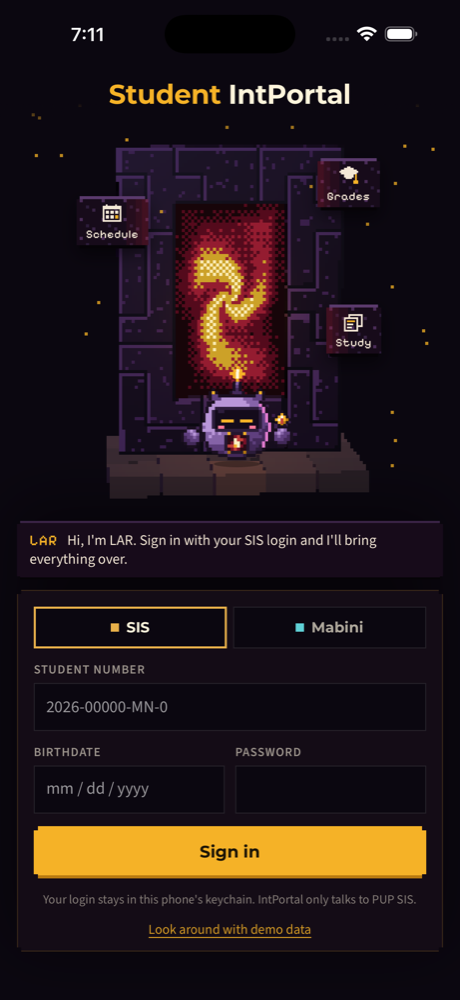
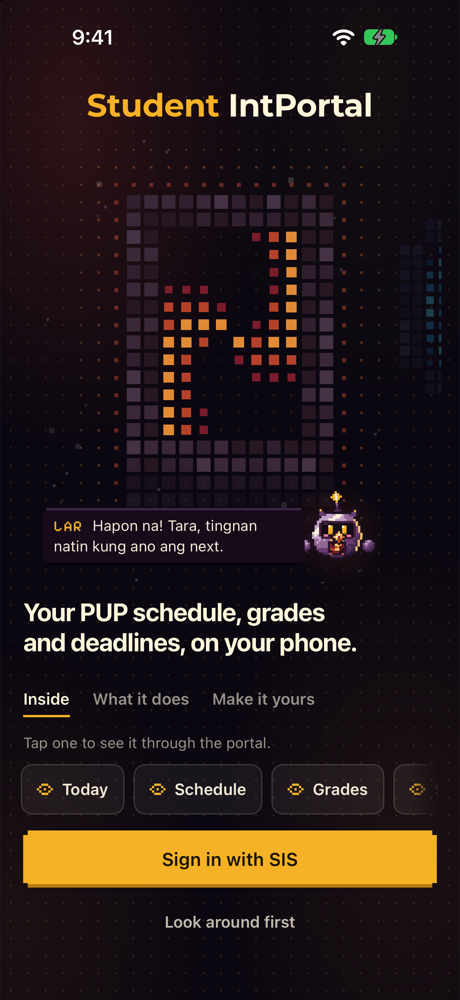
Release 0.2.0
- Version 0.2.0 in every file that carries it (scripts/version.sh). The
  shell's path dependency on intportal-core no longer pins 0.1.0, which
  blocked the bump.
- CHANGELOG: the 0.2.0 section, with its known gaps.
- iOS: PrivacyInfo.xcprivacy in the app target. No tracking, no collected
  data; required-reason APIs: UserDefaults (CA92.1, the calendar plugin),
  file timestamps (C617.1, std metadata) and system boot time (35F9.1,
  std Instant).
- CI: android.yml builds the arm64 release APK on android-v* tags, on demand
  and when the workflow changes, so a broken release build shows before a
  release (#264). Unsigned; scripts/emu.sh --release signs.
- README, FEATURES and ARCHITECTURE describe 0.2.0: the welcome and its
  tour, the portal wall, the Due card, the split shell, the CI checks.
  New iPhone screenshots.

Changed region(s): [[0.0, 0.0, 0.9739, 0.961], [0.4565, 0.682, 0.7, 0.713], [0.913, 0.248, 0.9739, 0.372]]

diff --git a/README.md b/README.md
@@ -1,24 +1,25 @@
 # IntPortal
 
-[![Version](https://img.shields.io/badge/version-0.1.4-c8102e)](CHANGELOG.md)
+[![Version](https://img.shields.io/badge/version-0.2.0-c8102e)](CHANGELOG.md)
 [![CI](https://github.com/cGradying/intportal-app/actions/workflows/ci.yml/badge.svg)](https://github.com/cGradying/intportal-app/actions/workflows/ci.yml)
 [![iOS build](https://github.com/cGradying/intportal-app/actions/workflows/ios.yml/badge.svg)](https://github.com/cGradying/intportal-app/actions/workflows/ios.yml)
+[![Android build](https://github.com/cGradying/intportal-app/actions/workflows/android.yml/badge.svg)](https://github.com/cGradying/intportal-app/actions/workflows/android.yml)
 ![Platforms](https://img.shields.io/badge/platforms-iOS%20%7C%20Android-555)
 [![License](https://img.shields.io/badge/license-PolyForm%20Noncommercial-555)](LICENSE)
 
-An unofficial student app for PUP, built for phones. It signs in to PUP's systems with your own account (the SIS for classes and grades, eMabini for courses and deadlines), keeps the data on the phone, and adds study tools and an on-device assistant around it. The look is a calm, clean interface with crafted pixel-art moments. LAR, the Lakbay-Aral Robot, does the talking. Isko is you.
+An unofficial student app for PUP, built for phones. It signs in to PUP's systems with your own account (the SIS for classes and grades, eMabini for courses and deadlines), keeps the data on the phone, and adds study tools and an on-device assistant around it. The look is a calm, clean interface on a dotted night ground, with crafted pixel-art moments. LAR, the Lakbay-Aral Robot, does the talking.
 
 It is a from-scratch rebuild of the macOS app, [cGradying/IntPortal](https://github.com/cGradying/IntPortal), which is now in maintenance. The old app's docs live in `docs/legacy/`; [docs/specs/](docs/specs/README.md) tracks what moves over.
 
-IntPortal is not made by or affiliated with PUP. Only your own account is supported, on the SIS and on eMabini, which is what PUP's terms allow. There are no store releases yet: build it yourself with the steps below.
+IntPortal is not made by or affiliated with PUP. Only your own account is supported, on the SIS and on eMabini, which is what PUP's terms allow. There are no store releases yet. Android builds are on the [releases page](https://github.com/cGradying/intportal-app/releases) as pre-releases; for iOS, build it yourself with the steps below.
 
 Every feature, tab by tab, is in [docs/FEATURES.md](docs/FEATURES.md); what changed in each version is in [CHANGELOG.md](CHANGELOG.md).
 
 <p>
-  <img src="docs/images/ios-landing.png" width="180" alt="The landing with the SIS and Mabini portals on iPhone">
-  <img src="docs/images/ios-today.png" width="180" alt="Today with Up next and eMabini deadlines on iPhone">
-  <img src="docs/images/ios-schedule.png" width="180" alt="The week schedule on iPhone">
-  <img src="docs/images/ios-grades.png" width="180" alt="Grades with the GPA trend on iPhone">
+  <img src="docs/images/ios-landing.png" width="180" alt="The welcome on iPhone: the PUP portal, a tour of what is inside, and Sign in with SIS">
+  <img src="docs/images/ios-today.png" width="180" alt="Today on iPhone: the class in session and the deadlines with their Done buttons">
+  <img src="docs/images/ios-schedule.png" width="180" alt="The day schedule on iPhone, with free time between classes">
+  <img src="docs/images/ios-grades.png" width="180" alt="Grades on iPhone: the term GPA, a personal best and the trend across terms">
 </p>
 <p>
   <img src="docs/images/android-today.png" width="180" alt="Today on Android">
@@ -28,12 +29,13 @@ Every feature, tab by tab, is in [docs/FEATURES.md](docs/FEATURES.md); what chan
 
 ## What it does
 
-- **Portals.** Pick SIS or Mabini (PUP's eMabini learning system) on the landing. Each has its own login, limits and colours; you can use one or both.
-- **Today.** Up next with a countdown, today's classes with the free time between them, your GPA at a glance, deadlines due soon, and one nudge from LAR.
+- **A welcome you can touch.** Before any form, the landing shows what the app holds: open the portal's peek on Today, Schedule, Grades or Study, have LAR explain what the app does, and try six looks that stay after you sign in. **Look around first** opens the whole app on sample data, with no PUP account.
+- **Portals.** SIS and Mabini (PUP's eMabini learning system) work now. Each has its own login, limits and colours; you can use one or both. The portal wall lists every PUP school, and a status chip says whether the SIS is answering without sending your login.
+- **Today.** Up next with a countdown, today's classes with the free time between them, your GPA at a glance, one Due card for SIS, eMabini and your own deadlines (Done with Undo), and one nudge from LAR.
 - **Schedule.** Day and week views. Long-press a class to mark it vacant or online, move it for a week, colour it, or add a note.
-- **Grades.** Every term with a real GPA, goals, and what you need on the rest to reach a target.
-- **Study.** Flashcard decks scheduled by FSRS, with three ways to study and a daily streak.
-- **Syllabus and notes.** Paste a course outline to track quizzes and exams, and keep notes per class or per day.
+- **Grades.** Every term with a real GPA, a trend across terms, an All passed pill, goals, and what you need on the rest to reach a target.
+- **Study.** Flashcard decks scheduled by FSRS, with three ways to study, each rating showing when the card comes back, a recap after each round, review across every deck, and a daily streak.
+- **Syllabus and notes.** Paste a course outline to track quizzes and exams. Notes are formatted Markdown with templates, checklists, photos and notebooks per subject, kept per class or per day.
 - **Mabini.** Your eMabini courses, the deadlines from every course on Today, and course grades next to the SIS ones.
 - **IntAssis (optional).** LAR answers questions about your classes, grades, deadlines and notes with a small model that runs on the phone, and says which notes an answer came from. Ask AI inside a note summarizes, tidies or explains it; it can also make flashcards from a note and explain a wrong answer. You download the model only if you choose "With AI" at first run. Nothing it suggests changes until you confirm.
 - **Reminders.** Before each class, the evening before deadlines, and on study days.
@@ -55,12 +57,12 @@ Every feature, tab by tab, is in [docs/FEATURES.md](docs/FEATURES.md); what chan
 crates/intportal-core/   Rust core and its tests
 crates/intportal-ai/     IntAssis logic, tested with a fake model
 crates/intportal-llm/    llama.cpp, model download, memory gate
-src-tauri/               Tauri shell: commands, keychain, store opening
+src-tauri/               Tauri shell: commands (src-tauri/src/commands), keychain, store opening
 src-tauri/gen/apple/     Xcode project, generated from project.yml by XcodeGen
 src-tauri/gen/android/   Gradle project, from tauri android init (see docs/android.md)
 plugins/                 Local Tauri plugins with Swift and Kotlin sources
 src/                     Svelte interface (screens in src/lib/screens)
-scripts/                 sim.sh, phone.sh, emu.sh, worktree.sh, version.sh, disk.sh, clean.sh, tiles.sh
+scripts/                 sim.sh, phone.sh, emu.sh, worktree.sh, version.sh, disk.sh, clean.sh, tiles.sh, and the three CI checks
 spikes/                  Throwaway experiments (SIS over HTTP, llama.cpp)
 docs/ARCHITECTURE.md     Layers, flows, owners and invariants: start here
 docs/TEAM.md             Roles, the issue-to-merge loop, kickoff prompts
@@ -77,7 +79,7 @@ CHANGELOG.md             What changed in each version
 ## Requirements
 
 - macOS with Xcode and the iOS simulator runtime that matches it (`xcodebuild -downloadPlatform iOS`)
-- Rust (stable) with the iOS targets: `rustup target add aarch64-apple-ios aarch64-apple-ios-sim`
+- Rust (stable) with the iOS and WebAssembly targets: `rustup target add aarch64-apple-ios aarch64-apple-ios-sim wasm32-unknown-unknown`
 - Node 22 and pnpm
 - XcodeGen (`brew install xcodegen`)
 - For Android: Android Studio with SDK 36, NDK r28 or newer and an emulator, JDK 17 (`brew install openjdk@17`), and `rustup target add aarch64-linux-android`
@@ -96,9 +98,12 @@ pnpm install
 pnpm check
 pnpm test
 cargo test -p intportal-core
+node scripts/commands-check.mjs
+node scripts/style-lint.mjs
+node scripts/tap-targets.mjs
 ```
 
-CI runs the same on every pull request, plus clippy. Each push to `main` also builds the iOS simulator app.
+CI runs the same on every pull request, plus clippy. `commands-check` keeps the commands the shell registers and the ones the interface calls in step; `style-lint` holds type sizes, durations and corners to the tokens in `DESIGN.md`; `tap-targets` holds every button to 44 pt. Each push to `main` also builds the iOS simulator app, and each `android-v*` tag builds the Android release APK.
 
 ### iOS simulator
 
@@ -106,7 +111,7 @@ CI runs the same on every pull request, plus clippy. Each push to `main` also bu
 scripts/sim.sh "iPhone 17 Pro Max"
 ```
 
-The argument is a simulator name or id; with none, the booted simulator is used. The script builds the debug app, installs it and launches it. Tap **Look around with demo data** to skip sign-in, then **Step through**.
+The argument is a simulator name or id; with none, the booted simulator is used. The script builds the debug app, installs it and launches it. Tap **Look around first** to skip sign-in, then **Step through**.
 
 `pnpm tauri ios dev` can pick a real device with the same model name, which then needs signing, so prefer `scripts/sim.sh`.
 
@@ -130,7 +135,7 @@ A free Apple account works, with two limits. The app stops opening after 7 days,
 scripts/emu.sh
 ```
 
-With an emulator running (or a phone on USB), the script builds the arm64 debug APK, installs it and launches it. Tap the portal, then **Look around with demo data**, then **Step through**. Where each Android piece lives, what to check after a change and the problems already solved are in [docs/android.md](docs/android.md).
+With an emulator running (or a phone on USB), the script builds the arm64 debug APK, installs it and launches it. Tap **Look around first**, then **Step through**. Where each Android piece lives, what to check after a change and the problems already solved are in [docs/android.md](docs/android.md).
 
 ### Changing native settings
 

diff --git a/docs/ARCHITECTURE.md b/docs/ARCHITECTURE.md
@@ -8,7 +8,7 @@ How IntPortal is put together, where each thing lives, and what must stay true. 
  Svelte UI            src/                    screens, components, app state
      |  invoke("command")        invoke("plugin:<name>|<command>")
      v                                    v
- Tauri shell          src-tauri/src/lib.rs     Local plugins   plugins/
+ Tauri shell          src-tauri/src/           Local plugins   plugins/
    AppState, commands, keychain,               glance: widget, Live Activity / Live Update
    store opening, demo                         calendar: EventKit / CalendarContract
      |  plain Rust calls                       (Swift and Kotlin halves)
@@ -42,14 +42,14 @@ Each layer only calls the one below it. The core has no UI and no platform APIs,
 
 ## The shell
 
-`src-tauri/src/lib.rs` holds `AppState` (the open `Store`, the data folder, the signed-in `SisClient` and `MabiniClient`, and one guard `Ledger` per portal) and 43 commands; the 16 AI commands are in `src-tauri/src/ai.rs`. All are registered in `run()` with `generate_handler!`. It also holds:
+`src-tauri/src/lib.rs` holds `AppState` (the open `Store`, the data folder, the signed-in `SisClient` and `MabiniClient`, and one guard `Ledger` per portal) and `run()`, which registers every command with `generate_handler!`. The commands live in `src-tauri/src/commands/`, one file per area (account, schedule, deadlines, notes, study, coach, backup, mabini), and the AI commands in `src-tauri/src/ai.rs`. Commands that touch the store run off the main thread (`#[tauri::command(async)]`). The store keeps the last snapshot it read or saved, so a read costs no query and a save writes only the parts that changed, in one transaction. Beside them:
 
-- `keychain`, the platform keychain (Keychain Services on Apple, a Keystore-sealed value on Android through `Secrets.kt`);
-- `vault`, the saved logins, one keychain service per portal (`Portal.keychain_service`);
+- `keychain.rs`, the platform keychain (Keychain Services on Apple, a Keystore-sealed value on Android through `Secrets.kt`);
+- `vault.rs` and `mabini_vault.rs`, the saved logins, one keychain service per portal (`Portal.keychain_service`);
 - the guard ledgers, saved as `login-guard.json` (SIS) and `mabini-guard.json` in the app's data folder, outside any student's store, so a restart doesn't reset the count;
-- `dbkey`, one random 32-byte key per store file, kept in the keychain;
+- `dbkey.rs`, one random 32-byte key per store file, kept in the keychain;
 - `open_store`, which opens a student's store with its key. A store the key can't open is renamed `.locked-<time>` and a fresh one starts, so the app never bricks;
-- `DEMO`, the flag behind **Look around with demo data**.
+- `demo.rs`, the sample student behind **Look around first**.
 
 Every command returns `Result<T, String>` today.
 
@@ -59,7 +59,7 @@ Every command returns `Result<T, String>` today.
 - `src/lib/state.svelte.ts` is the one shared store, `app`. Screens read it; only this file writes it.
 - `src/lib/api.ts` wraps each command in a typed function. Its types are written by hand to match the Rust structs.
 - `src/lib/screens/` holds Today, Schedule, Grades, Study and You. Sheets and pages that open over them (`ClassSheet`, `SubjectPage`, `DeckPage`, `NoteEditor`) live in `src/lib/`.
-- The landing is `Landing.svelte` and `PortalStage.svelte`. `landing.ts` is its clock as a pure function of time. The tile portal is `crates/intportal-tiles`: a pure scene (`scene.rs`, tested with `cargo test`) and plain WebAssembly exports, built to `static/tiles.wasm` by `scripts/tiles.sh` and drawn by `tiles.ts` (spec 010, ADR 0004). The portal's colours come from the registry (spec 012).
+- The landing is `Landing.svelte` and `PortalStage.svelte`. `landing.ts` is its clock as a pure function of time. The tile portal is `crates/intportal-tiles`: a pure scene (`scene.rs`, tested with `cargo test`) and plain WebAssembly exports, built to `static/tiles.wasm` by `scripts/tiles.sh` and drawn by `tiles.ts` (spec 010, ADR 0004). The portal's colours come from the registry (spec 012). The welcome's tour is data in `welcome/tour.ts`, drawn by `WelcomeTour.svelte`; each tap drives the stage (`peekTo`, `say`, `openWall`). The portal wall is `PortalHub.svelte`, with its sections from `hub.ts`.
 - `src/lib/lar/` is LAR: pure sprite grids and the component.
 
 ## Main flows
@@ -97,7 +97,7 @@ IntAssis runs a small model through llama.cpp, on the phone, only after the stud
 |---|---|---|
 | What SIS pages are read, or how | `crates/intportal-core/src/sis/` | Core |
 | A rule about classes, grades, study, reminders, the coach | the matching core module, test first | Core |
-| A new command or its arguments | `src-tauri/src/lib.rs`, then `src/lib/api.ts` | Core, then UI |
+| A new command or its arguments | `src-tauri/src/commands/`, registered in `lib.rs`, then `src/lib/api.ts` (`scripts/commands-check.mjs` fails CI when they drift) | Core, then UI |
 | What a screen shows | `src/lib/screens/` and its components | UI |
 | Shared app state or a flow across screens | `src/lib/state.svelte.ts` | UI |
 | IntAssis prompts, schemas, RAG, model download | `crates/intportal-ai/`, `crates/intportal-llm/`, `src-tauri/src/ai.rs`, `src/lib/assis/` | AI |
@@ -116,7 +116,7 @@ IntAssis runs a small model through llama.cpp, on the phone, only after the stud
 - **Portals don't share state.** A Mabini failure never fails an SIS sync, and the reverse.
 - **Each student's store is SQLCipher-encrypted** with its own key in the keychain. A store that won't open is set aside, never deleted.
 - **The core stays pure.** No platform APIs in `intportal-core`; anything that needs the phone goes in the shell or a plugin.
-- **LAR speaks; Isko never does.** Copy follows `PRODUCT.md` and `DESIGN.md`.
+- **LAR speaks.** He is the only character. Copy follows `PRODUCT.md` and `DESIGN.md`.
 - **Reduce Motion is honoured** everywhere, including the landing.
 - **Anything that opens over the page registers its close with `closable()`**, so Android's back gesture closes it and not the app.
 
@@ -149,16 +149,15 @@ Desktop `cargo` builds compile neither the Swift nor the Kotlin. Only `scripts/s
 - [0001](adr/0001-tauri-rust-svelte.md) Tauri, Rust and Svelte.
 - [0002](adr/0002-device-only-data.md) Student data stays on the device.
 - [0003](adr/0003-on-device-ai-llama-cpp.md) On-device AI runs llama.cpp in Rust; local only.
-- [0004](adr/0004-landing-renders-in-rust-wasm-tiles.md) The landing renders in Rust/WASM tiles (planned).
+- [0004](adr/0004-landing-renders-in-rust-wasm-tiles.md) The landing renders in Rust/WASM tiles.
 - [0005](adr/0005-portals-are-first-class.md) Portals are first-class: SIS and Mabini (eMabini) are ready.
 
 ## Known debts
 
 These feed the first sprint in `docs/TEAM.md`.
 
-- `src-tauri/src/lib.rs` is about 1,070 lines and mixes commands, keychain, store opening and both portals' sign-in (#60).
-- `src/lib/api.ts` types are hand-written copies of the Rust structs and can drift.
-- Commands return strings for errors, so the UI can't tell offline, a failed sign-in and a locked store apart.
+- `src/lib/api.ts` types are hand-written copies of the Rust structs and can drift. `commands-check.mjs` catches a missing or extra command, not a changed field (#61).
+- Commands return strings for errors; `errors.ts` maps each sentence to plain words and `errors.test.ts` fails when a Rust sentence has no copy (#62).
 - The SIS parsers have no fixtures from real pages, so a change on PUP's side shows up only on a phone.
 - `Today.svelte`, `Grades.svelte` and `You.svelte` are 450 to 650 lines each.
 - Screens are checked only by hand on the simulator.

diff --git a/docs/FEATURES.md b/docs/FEATURES.md
@@ -1,15 +1,18 @@
 # Features
 
-What IntPortal does, tab by tab, as of version 0.1.4. This page is for students; how the app is built is in [ARCHITECTURE.md](ARCHITECTURE.md).
+What IntPortal does, tab by tab, as of version 0.2.0. This page is for students; how the app is built is in [ARCHITECTURE.md](ARCHITECTURE.md).
 
 IntPortal is an independent student project, not affiliated with PUP. Sign in only with your own account.
 
 ## Signing in
 
-- **Portals.** The landing shows each PUP system the app can open. SIS holds your classes and grades. Mabini (eMabini, PUP's learning system) holds your courses, deadlines and course grades. Sign in to one or both.
+- **A welcome first.** A new student sees the portal and three tabs to touch before any form. **Inside** opens the portal's peek on Today, Schedule, Grades or Study, with sample data. **What it does** has LAR explain reminders, deadlines, offline use, privacy and his nudges. **Make it yours** tries six dark looks on the landing; the one you pick stays after you sign in.
+- **Portals.** SIS holds your classes and grades. Mabini (eMabini, PUP's learning system) holds your courses, deadlines and course grades. Sign in to one or both. The plaque under the portal opens the portal wall: SIS and eMabini first, then every PUP school A to Z.
+- **Is the SIS up?** A chip under the portal says when the SIS isn't answering. It checks without sending your login; tap it to check again.
+- **Forgot password** opens the portal's own reset page, and **How** explains where your login is kept.
 - **SIS login.** Student number, birthdate and password.
 - **Mabini login.** Your student number and your eMabini password.
-- **Look around first.** **Look around with demo data** opens the app with sample classes and grades, no account needed.
+- **Look around first** opens the whole app with sample classes and grades, no account needed.
 - **Your account stays safe.** Each tap signs in once. After three tries in 15 minutes the app waits and tells you when you can try again, and it never retries a rejected password on its own. A wrong password can't get your PUP account locked by the app.
 - **First run.** Choose **Light, no AI** or **With AI** (see IntAssis below), and turn on reminders if you want them.
 
@@ -18,7 +21,7 @@ IntPortal is an independent student project, not affiliated with PUP. Sign in on
 - **Up next.** Your next class with a countdown, or "in session" while it runs.
 - **Today's classes.** In order, with the free time between them. Your own calendar events count as busy time, if you allow it.
 - **Tomorrow starts with.** The first class of tomorrow and its time.
-- **Coming up this week.** Quizzes, exams and projects from your syllabus outlines, and every deadline from your Mabini courses.
+- **Due.** One card for deadlines from your syllabus outlines, your Mabini courses and your own. Tap **Done** beside one (or long-press it) and it drops into "Done this week", with Undo for 5 seconds. **Add** your own by typing it or scanning a photo of it.
 - **Your GPA at a glance.** This term and overall.
 - **One nudge from LAR.** A single tip a day: a deadline, cards due, a free gap you can use, or your target GPA. Dismiss it and it stays gone.
 - **Pull to sync.** Pull down to fetch fresh data from the SIS and Mabini.
@@ -36,16 +39,18 @@ IntPortal is an independent student project, not affiliated with PUP. Sign in on
 ## Grades
 
 - **Every term** with a real units-weighted GPA. Pending, INC and DRP grades don't count toward it.
-- **Trend and progress.** Your GPA across terms, and units done out of your program's total.
+- **Trend and progress.** Your GPA across terms with guides at 1.00, 1.50 and 2.00, and units done out of your program's total. VoiceOver reads the trend as a sentence.
+- **All passed.** A pill once every subject this term is posted and passed.
 - **Target GPA.** Set a goal and see what you need on the rest of the term to reach it, and whether it's still in reach. A personal best gets confetti.
 - **Mabini grades.** Course grades from eMabini, next to the SIS ones.
 
 ## Study
 
 - **Decks of flashcards** per subject. Add cards by hand or paste "front - back" lines.
-- **Spaced repetition.** Cards come back when you're about to forget them (FSRS).
+- **Spaced repetition.** Cards come back when you're about to forget them (FSRS). Each rating shows when the card would come back (10m, 1d, 3d…), and the end of a round shows your score and each card's next review.
+- **Review everything due** across all your decks at once.
 - **Three ways to study.** Flip the card, type the answer, or pick from choices.
-- **Due now and streak.** How many cards are due, and your daily streak.
+- **Due now, streak and Done.** How many cards are due, your daily streak, and your reviews over the last 7 days.
 - **Why?** After a wrong answer, LAR explains it using your class notes (needs IntAssis).
 - **Cards from a note** with IntAssis: review them before you save.
 
@@ -53,7 +58,7 @@ IntPortal is an independent student project, not affiliated with PUP. Sign in on
 
 - **Outline.** Paste a course outline and IntPortal finds the lectures, quizzes, exams and projects by week and date. Check items off as you go.
 - **Grading.** Add the components (quizzes 30%, exams 40%…), enter your scores, and see the average you need for the grade you're aiming for.
-- **Notes.** One note per class that carries across weeks, a note per day, and named notes. Search them, and export one or all as Markdown.
+- **Notes.** Formatted Markdown with a toolbar, templates, checklists you tick without the keyboard, photos, and a page look (size, font, spacing, paper). One note per class that carries across weeks, a note per day, named notes and notebooks per subject. Search them, make cards from one, and export one or all as Markdown.
 
 ## Mabini
 

diff --git a/CHANGELOG.md b/CHANGELOG.md
@@ -2,6 +2,27 @@
 
 What changed in each release, newest first. A release PR adds its section; `scripts/version.sh` sets the version.
 
+## 0.2.0 (2026-11-15)
+
+- Welcome: a new student sees what the app is before any form. Under the portal, three tabs to touch: Inside opens the peek on Today, Schedule, Grades or Study; What it does has LAR explain reminders, deadlines, offline use, privacy and his nudges; Make it yours re-tints the landing in six dark looks and keeps the pick for the app (#282, #283)
+- Landing: one world with the app. The night ground and its dot grid, a portal lit from inside that stands on its own reflection, still stars, and only the portal moving at rest. Peek, an "SIS is up" check that sends no login, Look around (in release builds too), how your login is kept, and Forgot password, all before signing in (#281, #282)
+- Choosing a school: a plaque with the school's mini portal opens the portal wall, with Open now (SIS, eMabini) first, then recent, your region and A to Z (#281)
+- Today: Done is one 44 pt chip beside each deadline, and the title gets the row's width (#284)
+- Schedule: the gold tile under the chosen day shows again; "Due, next 4 weeks" says what the little map is (#284)
+- Grades: the GPA trend has guides at 1.00, 1.50 and 2.00, its first and last values and a spoken summary; an "All passed" pill when every subject passed (#284)
+- Study: each rating shows when the card comes back (10m, 1d, 3d…), and the end of a round shows your score and each card's next review (#284)
+- LAR no longer says "Nothing due" while the Due card lists something; source chips in his chat survive a restart; the tab bar stays put when a field is focused from code; nothing animates behind his window or while the app is hidden (#279)
+- Faster: a screen reads the student once instead of twelve rows, one tick writes one row instead of twelve, and no command runs on the main thread (load 374 µs to 24 µs, one edit 501 µs to 142 µs, in memory) (#278)
+- One art style: every type size, duration and corner from a token, 44 pt tap targets everywhere, and the same dotted ground under every screen (#280)
+- The 3D crystal is back as LAR's chat chip; the chat still opens with the pixel dither (#274)
+- Release: a privacy manifest for iOS, a content security policy, and an Android release build in CI
+
+Known gaps:
+
+- Not yet run on a real phone: the camera scan, note photos, keep-screen-awake, the backup share sheet, and the frame rate of the landing and the dither opening
+- A low-end Android check of the crystal and the dither (#231), and all-day deadlines in Android's calendar (#205)
+- No store builds yet: TestFlight and Play testing need store accounts (#26)
+
 ## 0.1.10 (2026-11-14)
 
 - LAR's chat button is a flat pixel chip: a 3x3 grid in the room's tones with a gold dot on each part that holds data. On Study and in the note editor its corners dither away into a gold +, and an open menu shows a pixel X. While LAR thinks, a pixel dither runs across it (#271)
